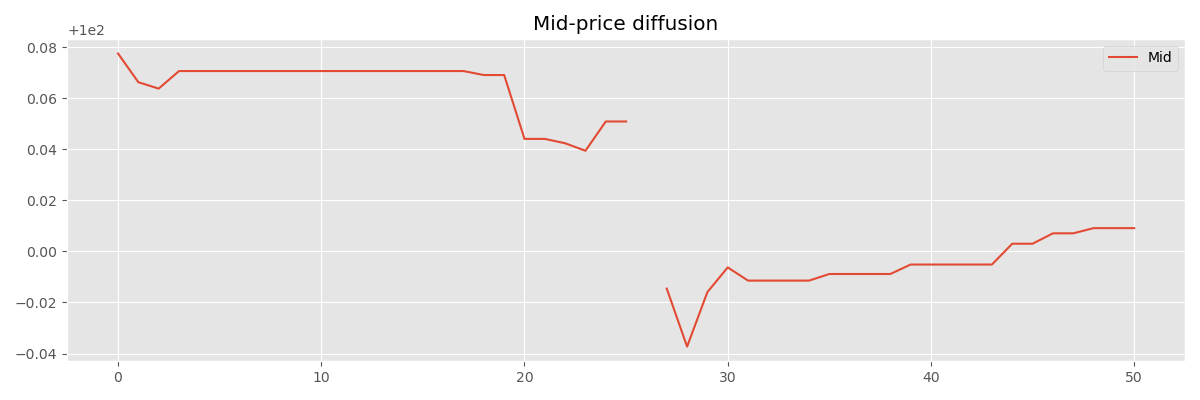
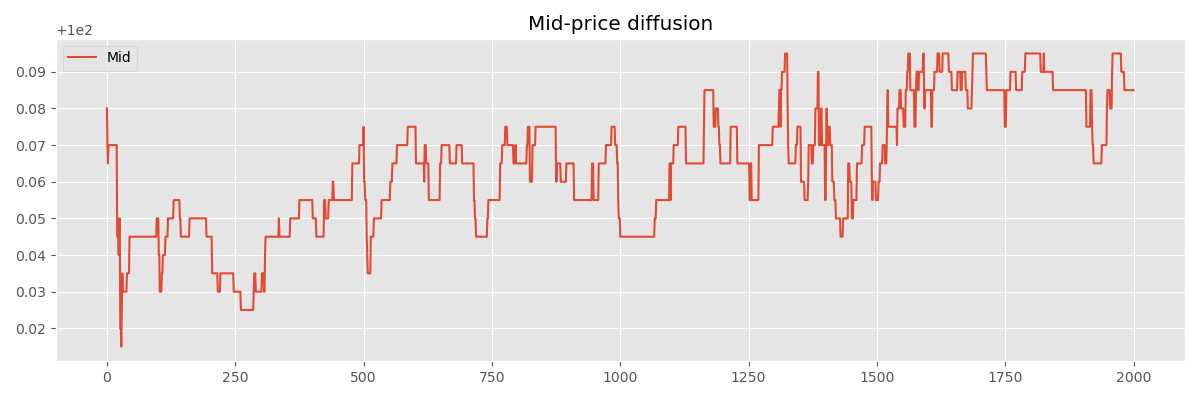
pre prod final

diff --git a/src/agents.py b/src/agents.py
@@ -159,6 +159,91 @@ class NoiseTrader(BaseAgent):
 
         return Order(self.new_oid(), self.trader_id, side, qty, price=float(px), ts=t)
 
+class MarketMakerAS(BaseAgent):
+    """
+    Market maker with inventory risk adjusted spread (Avellaneda-Stoikov)
+    """
+    def __init__(self, 
+                 trader_id: int,
+                 rng: np.random.Generator,
+                 kappa: float, # Order‐book liquidity parameter (κ)
+                 gamma: float, # Inventory risk aversion (γ)
+                 sigma: float, # Market volatility (σ)
+                 horizon: float, # Time horizon
+                 A: float, # Baseline arrival rate
+                 mid_price_threshold: float = 0.50,
+                 inventory_threshold: int = 2,
+                 ):
+        super().__init__(trader_id, rng)
+        self.kappa = kappa
+        self.gamma = gamma
+        self.sigma = sigma
+        self.T = horizon
+        self.inventory = 0
+        self.A = A
+        #If we want to track PnL, we can add a cash attribute and update it on trades
+        self.cash = 0.0
+        self.order_index: Dict[int, Tuple[Side, float]] = {}  # order_id -> (side, price)
+
+        # Thresholds
+        self.mid_price_threshold = mid_price_threshold
+        self.inventory_threshold = inventory_threshold
+    
+    def update_inventory(self, trade: Trade):
+        """Update inventory based on executed trade."""
+        if trade.aggressor_side == "buy":
+            self.inventory -= trade.qty  # sold to buyer, decrease inventory
+        else:
+            self.inventory += trade.qty  # bought from seller, increase inventory
+    
+    def optimal_spread(self, time_remaining: float) -> float:
+        """Calculate optimal spread based on Avellaneda-Stoikov formula."""
+        term1 = self.gamma * self.sigma**2 * time_remaining
+        term2 = (2.0 / self.gamma) * math.log(1.0 + self.gamma / self.kappa)
+        return term1 + term2
+    
+    def arrival_intensity(self, delta: float) -> float:
+        """Exponential arrival intensity for orders at distance δ."""
+        return self.A * math.exp(-self.kappa * delta)
+    
+    def act(self, t: int, book: OrderBook) -> Action:
+        # Calculate mid-price and optimal spread
+        bb, ba = book.best_bid(), book.best_ask()
+        if bb <= 0 or not np.isfinite(ba):
+            mid_price = 100.0  # default mid if no quotes
+        else:
+            mid_price = (bb + ba) / 2
+        
+        #Calculate reservation price and optimal quotes
+        time_remaining = self.T - t
+        rerserve_price = mid_price - self.inventory * self.gamma * self.sigma**2 * time_remaining
+        optimal_spread = self.optimal_spread(time_remaining)
+
+        bid_price = rerserve_price - optimal_spread / 2
+        ask_price = rerserve_price + optimal_spread / 2
+
+
+        #Quote orders according to arrival_intensity or probability of getting filled
+        delta_bid = mid_price - bid_price
+        delta_ask = ask_price - mid_price
+
+        #Fill probability based on arrival intensity (dt = 1 for simplicity)
+        fill_prob_bid = self.arrival_intensity(delta_bid)
+        fill_prob_ask = self.arrival_intensity(delta_ask)
+
+        #Randomly decide to place/cancel orders based on fill probabilities
+        r = self.rng.random()
+        if r < fill_prob_bid: 
+            bid = Order(self.new_oid(), self.trader_id, "buy", qty=1, price=bid_price, ts=t)
+            self.update_inventory(bid)
+            return bid   
+        elif r < fill_prob_bid + fill_prob_ask: 
+            ask = Order(self.new_oid(), self.trader_id, "sell", qty=1, price=ask_price, ts=t)
+            self.update_inventory(ask)
+            return ask
+        else:  
+            return None
+
 
 class MarketMaker(BaseAgent):
     """
@@ -168,6 +253,9 @@ class MarketMaker(BaseAgent):
     """
 
     def act(self, t: int, book: OrderBook) -> Action:
+        #if self.rng.random() > 0.9:
+            #return None
+        
         r = self.rng.random()
 
         side: Side = "buy" if r < 0.55 else "sell"

diff --git a/src/run.py b/src/run.py
@@ -59,7 +59,7 @@ def main():
         #MarketMakerAS(trader_id=4, rng=np.random.default_rng(4))
     ]
 
-    steps = 51
+    steps = 2001
 
     logs = {
         "t": [],
@@ -117,7 +117,7 @@ def main():
         logs["LastActor"].append(last_actor)
         logs["OBI"].append(obi)
 
-        if t % 5 == 0:
+        if t % 50 == 0:
             print(f"t={t}, bb={bb:.4f}, ba={ba:.4f}, spread={sp:.4f}, Norm obi={obi:.4f}")
 
             snapshots.append({
@@ -188,23 +188,23 @@ def main():
         plt.savefig(os.path.join(out_dir, "ABM_OrderBook_Snapshots.png"))
         plt.close()
 
-        #Create demand curve of the book, with cumulative quantity at each price level.
-        bid_prices = [p for p, q in bids]
-        bid_quantities = [sum(q for p, q in bids if p >= price) for price in bid_prices]
+    #Create demand curve of the book, with cumulative quantity at each price level.
+    bid_prices = [p for p, q in bids]
+    bid_quantities = [sum(q for p, q in bids if p >= price) for price in bid_prices]
 
-        ask_prices = [p for p, q in asks]
-        ask_quantities = [sum(q for p, q in asks if p <= price) for price in ask_prices]
+    ask_prices = [p for p, q in asks]
+    ask_quantities = [sum(q for p, q in asks if p <= price) for price in ask_prices]
 
-        # Piecewise constant (step) plots
-        plt.step(bid_quantities, bid_prices, where='post', color='blue', label='Bids')
-        plt.step(ask_quantities, ask_prices, where='post', color='red', label='Asks')
+    # Piecewise constant (step) plots
+    plt.step(bid_quantities, bid_prices, where='post', color='blue', label='Bids')
+    plt.step(ask_quantities, ask_prices, where='post', color='red', label='Asks')
 
-        plt.xlabel('Cumulative Quantity')
-        plt.ylabel('Price')
-        plt.title('Demand Curve')
-        plt.legend()
-        plt.savefig(os.path.join(out_dir, "demand_curve.png"))
-        plt.close()
+    plt.xlabel('Cumulative Quantity')
+    plt.ylabel('Price')
+    plt.title('Demand Curve')
+    plt.legend()
+    plt.savefig(os.path.join(out_dir, "demand_curve.png"))
+    plt.close()
 
 
     # Save logs

diff --git a/src/orderbook.py b/src/orderbook.py
@@ -60,20 +60,26 @@ class OrderBook:
     # ---------- best quotes ----------
 
     def best_bid(self) -> float:
-        return self.bid_prices[-1] if self.bid_prices else 0.0
+        return self.bid_prices[-1] if self.bid_prices else float("-inf")
 
     def best_ask(self) -> float:
         return self.ask_prices[0] if self.ask_prices else float("inf")
 
     def spread(self) -> float:
         bb, ba = self.best_bid(), self.best_ask()
-        return (ba - bb) if (bb > 0 and np.isfinite(ba)) else np.nan
-
+        if bb is None or ba is None or not np.isfinite(bb) or not np.isfinite(ba):
+            spread = np.nan
+        else:
+            spread = ba - bb
+        return spread
+    
     def mid_price(self) -> float:
         bb, ba = self.best_bid(), self.best_ask()
         return 0.5 * (bb + ba) if (bb > 0 and np.isfinite(ba)) else np.nan
 
     # ---------- helpers ----------
+    def _snap(self, px: float) -> float:
+        return round(px / self.tick) * self.tick
 
     def _add_price_level(self, side: Side, price: float) -> None:
         if side == "buy":
@@ -175,6 +181,7 @@ class OrderBook:
 
     def add_limit(self, order: Order) -> List[Trade]:
         assert order.price is not None, "Limit order must have a price"
+        order.price = float(self._snap(order.price))
         trades = self._match(order)
         # sanity check: do not allow crossed book
         if self.best_bid() >= self.best_ask():
@@ -194,6 +201,7 @@ class OrderBook:
 
     def add_limit_post_only(self, order: Order) -> None:
         assert order.price is not None
+        order.price = float(self._snap(order.price))
         self._add_price_level(order.side, order.price)
 
         if order.side == "buy":
